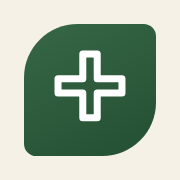
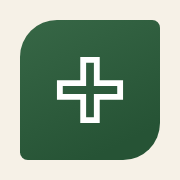
feat: brand mark from the construction drawing, wording updates
Leaf tile R19/R4 on a 72 grid with an outlined cross (34 across, arms 10,
wall 3); versioned tab icon links; «با تقویم شمسی»,
«کلرک حواسش به موجودی انبار هست», «بکاپ» for backups.

Changed region(s): [[0.1111, 0.1111, 0.8889, 0.8889], [0.2778, 0.2778, 0.7222, 0.6944]]

diff --git a/site/index.html b/site/index.html
@@ -6,10 +6,10 @@
 <meta name="color-scheme" content="light dark">
 <meta name="darkreader-lock">
 <title>KLERK | کلرک، منشی کلینیکتون</title>
-<meta name="description" content="کلرک پروندهی بیمارا، نوبتها، صورتحساب، انبار و پیامک یادآوری کلینیک رو یه جا نگه میداره؛ فارسی، با تاریخ شمسی، رو سرور خود کلینیک.">
-<link rel="icon" href="favicon.ico" sizes="32x32">
-<link rel="icon" href="favicon.svg" type="image/svg+xml">
-<link rel="apple-touch-icon" href="apple-touch-icon.png">
+<meta name="description" content="کلرک پروندهی بیمارا، نوبتها، صورتحساب، انبار و پیامک یادآوری کلینیک رو یه جا نگه میداره؛ فارسی، با تقویم شمسی، رو سرور خود کلینیک.">
+<link rel="icon" href="favicon.ico?v=2" sizes="32x32">
+<link rel="icon" href="favicon.svg?v=2" type="image/svg+xml">
+<link rel="apple-touch-icon" href="apple-touch-icon.png?v=2">
 <link rel="preload" href="fonts/Estedad-Variable.woff2" as="font" type="font/woff2" crossorigin>
 <link rel="stylesheet" href="site.css">
 <script src="site.js"></script>
@@ -18,7 +18,7 @@
 
 <svg width="0" height="0" class="sprite" aria-hidden="true">
   <!-- The klerk mark: the app's own sidebar tile (leaf corners, outlined cross). Colours come from CSS (.mark). -->
-  <symbol id="mark" viewBox="0 0 64 64"><path class="mark-tile" d="M26 0h32a6 6 0 0 1 6 6v32a26 26 0 0 1-26 26H6a6 6 0 0 1-6-6V26A26 26 0 0 1 26 0z"/><path class="mark-cross" d="M28.5 14.5h7v12h12v7h-12v12h-7v-12h-12v-7h12z" fill="none" stroke-width="3.4" stroke-linejoin="round"/></symbol>
+  <symbol id="mark" viewBox="0 0 72 72"><path class="mark-tile" d="M19 0h49a4 4 0 0 1 4 4v49a19 19 0 0 1-19 19H4a4 4 0 0 1-4-4V19A19 19 0 0 1 19 0z"/><path class="mark-cross" d="M32.5 20.5h7v12h12v7h-12v12h-7v-12h-12v-7h12z" fill="none" stroke-width="3" stroke-linejoin="miter"/></symbol>
   <symbol id="arrow" viewBox="0 0 24 24"><path d="M19 12H5M11 6l-6 6 6 6" fill="none" stroke="currentColor" stroke-width="2.4" stroke-linecap="round" stroke-linejoin="round"/></symbol>
   <symbol id="plus" viewBox="0 0 24 24"><path d="M12 5v14M5 12h14" fill="none" stroke="currentColor" stroke-width="2.4" stroke-linecap="round"/></symbol>
 </svg>
@@ -39,7 +39,7 @@
 <section class="hero" aria-labelledby="hero-h">
   <div class="hero-copy" data-reveal>
     <h1 id="hero-h"><span>کارای کلینیک رو</span> <span>بسپارید به کلرک.</span></h1>
-    <p class="lead">پرونده، نوبت، صورتحساب، انبار و پیامک؛ همه یه جا، فارسی و با تاریخ شمسی.</p>
+    <p class="lead">پرونده، نوبت، صورتحساب، انبار و پیامک؛ همه یه جا، فارسی و با تقویم شمسی.</p>
     <div class="actions">
       <a class="btn" href="#contact">یه دمو میخوام</a>
       <a class="btn btn-ghost" href="#features">اول ببینم چی داره</a>
@@ -65,7 +65,7 @@
 
   <article class="feat feat-flip" data-reveal>
     <div class="feat-text">
-      <h3>انبار حواسش به همهچی هست</h3>
+      <h3>کلرک حواسش به موجودی انبار هست</h3>
       <p>هرچی مصرف بشه خودش کم میشه؛ اولم از اونی که زودتر تاریخش میگذره.</p>
     </div>
     <figure class="shot crop-storage"><img src="img/storage-light.webp" width="2880" height="1800" alt="صفحهی انبار با موجودی و تاریخ انقضای هر کالا" loading="lazy"></figure>
@@ -159,7 +159,7 @@
   <div class="calm-inner">
     <h2 id="calm-h" class="sec-h" data-reveal>خیالتون راحت باشه.</h2>
     <ul class="facts" data-reveal>
-      <li><b>ساعت ۳ شب</b><span>هر شب خودش از همهچی پشتیبان میگیره.</span></li>
+      <li><b>ساعت ۳ شب</b><span>هر شب خودش از همهچی بکاپ میگیره.</span></li>
       <li><b>یه روز قبلش</b><span>پیامک یادآوری نوبت برای بیمار میره.</span></li>
       <li><b>فقط پیش خودتون</b><span>اطلاعات بیمارا رو سرور خود کلینیکه، نه هیچ جای دیگه.</span></li>
     </ul>
@@ -186,7 +186,7 @@
     <details name="faq"><summary>ورودش امنه؟<svg aria-hidden="true"><use href="#plus"/></svg></summary><p>ورود با نام کاربری و رمز حداقل ۱۰ حرفیه. ۵ بار اشتباه بزنن، ۱۵ دقیقه قفل میشه. هر کاری هم بشه، ثبت میشه.</p></details>
     <details name="faq"><summary>میشه مشخص کنم هر کی چی ببینه؟<svg aria-hidden="true"><use href="#plus"/></svg></summary><p>آره. برای هر نفر جدا تعیین میکنید به بیمارا، مدارک، نوبتها، انبار و حسابها دسترسی داره یا نه.</p></details>
     <details name="faq"><summary>اطلاعات قبلیمونو میشه آورد؟<svg aria-hidden="true"><use href="#plus"/></svg></summary><p>آره، فهرست بیمارا رو با یه فایل CSV وارد میکنید. کد پروندهها هم میتونه همونی که بود بمونه.</p></details>
-    <details name="faq"><summary>اگه سرور خراب شه چی؟<svg aria-hidden="true"><use href="#plus"/></svg></summary><p>هر شب پشتیبان گرفته میشه و هر وقت بخواید یه فایل کامل از همهی پروندهها و مدارک دانلود میکنید.</p></details>
+    <details name="faq"><summary>اگه سرور خراب شه چی؟<svg aria-hidden="true"><use href="#plus"/></svg></summary><p>هر شب بکاپ گرفته میشه و هر وقت بخواید یه فایل کامل از همهی پروندهها و مدارک دانلود میکنید.</p></details>
     <details name="faq"><summary>پیامکش چطوری کار میکنه؟<svg aria-hidden="true"><use href="#plus"/></svg></summary><p>با پنل ایرانپیامکِ خود کلینیک. متنشو خودتون مینویسید و یه روز قبل نوبت میره. تا روشنش نکنید، هیچ پیامکی نمیره.</p></details>
   </div>
 </section>
